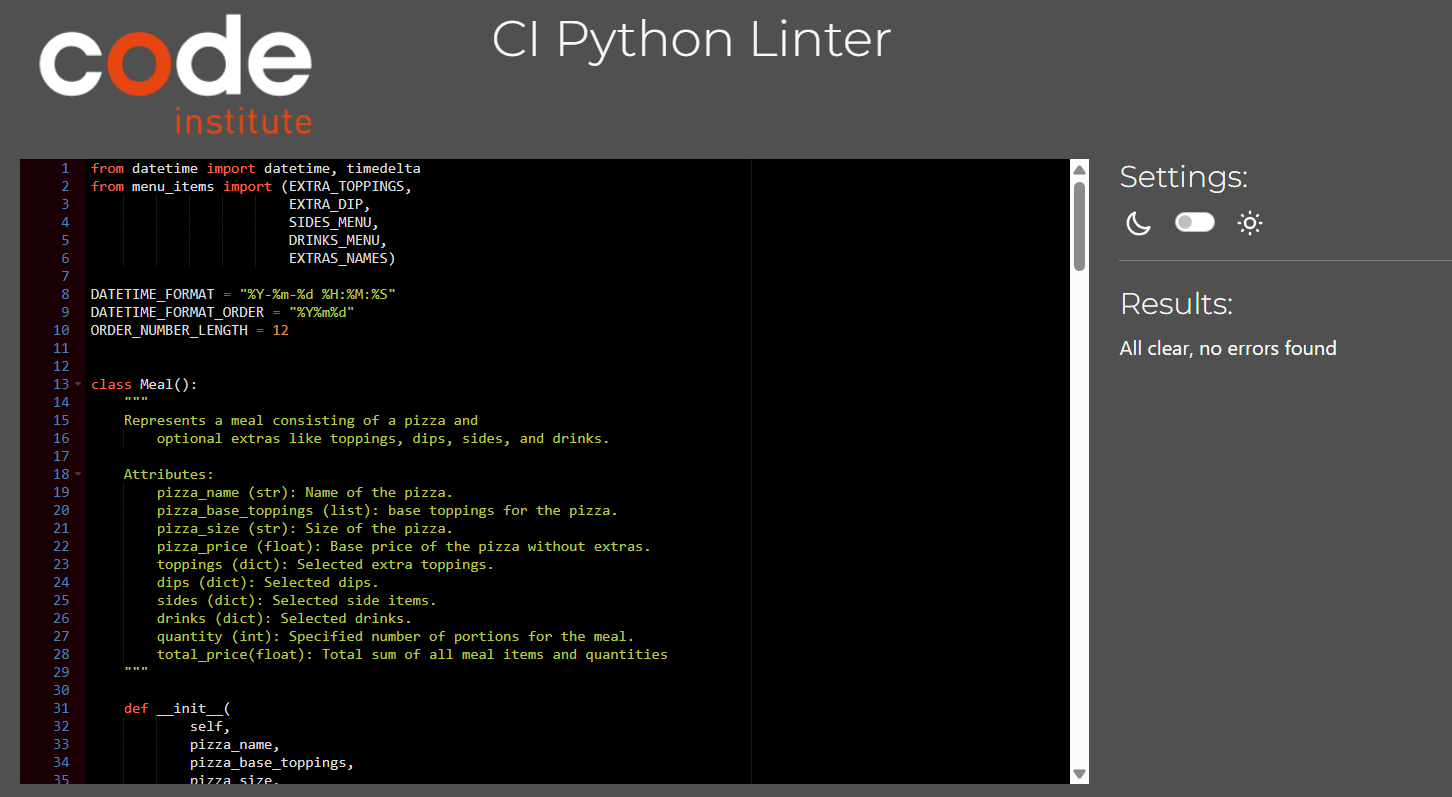
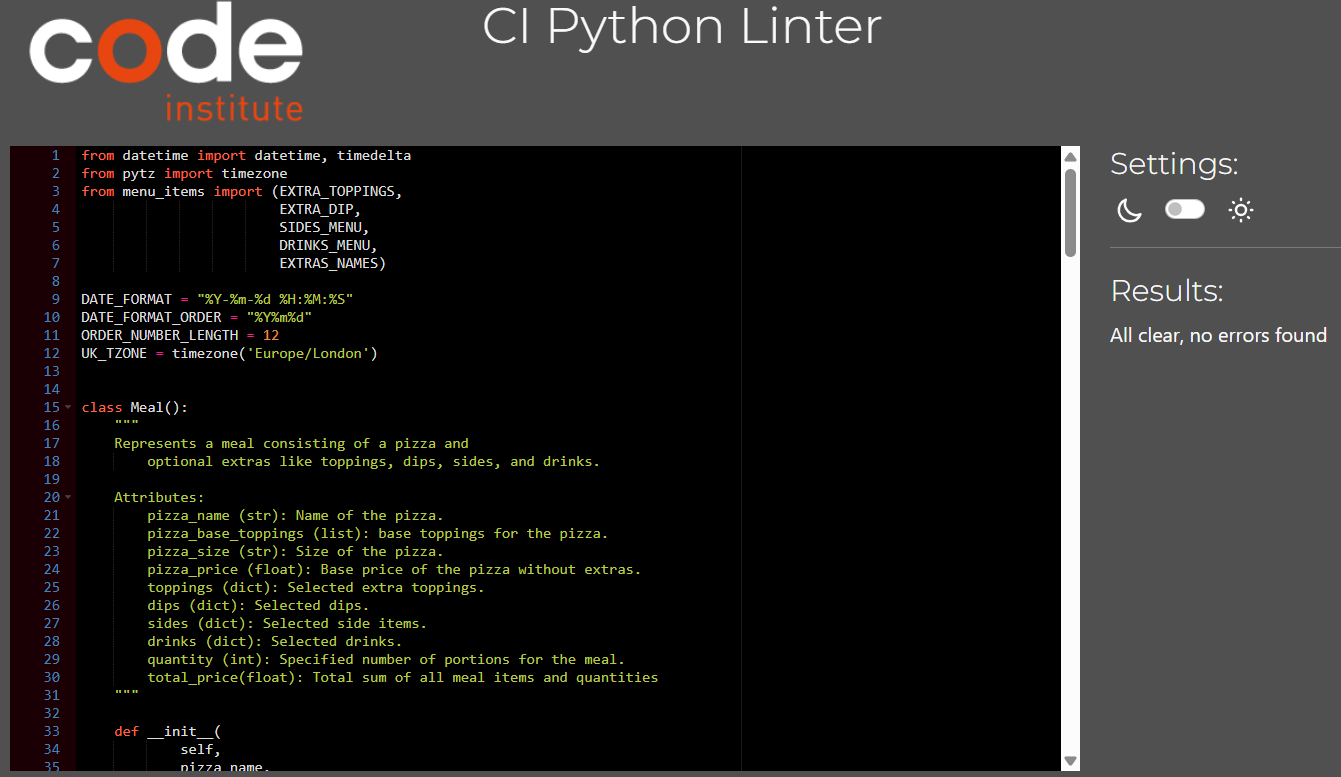
Add pizza_meals.py PEP8 validator results  and resolutions

Changed region(s): [[0.0, 0.0, 0.9784, 1.0], [0.3363, 0.0, 0.6421, 0.0927]]

diff --git a/pizza_meals.py b/pizza_meals.py
@@ -6,10 +6,10 @@ from menu_items import (EXTRA_TOPPINGS,
                         DRINKS_MENU,
                         EXTRAS_NAMES)
 
-DATETIME_FORMAT = "%Y-%m-%d %H:%M:%S"
-DATETIME_FORMAT_ORDER = "%Y%m%d"
+DATE_FORMAT = "%Y-%m-%d %H:%M:%S"
+DATE_FORMAT_ORDER = "%Y%m%d"
 ORDER_NUMBER_LENGTH = 12
-LONDON_TIMEZONE = timezone('Europe/London')
+UK_TZONE = timezone('Europe/London')
 
 
 class Meal():
@@ -139,7 +139,8 @@ class Order():
         """
         self.order_list = order_list
         self.total_price = total_price
-        self.order_date = datetime.now().astimezone(LONDON_TIMEZONE).strftime(DATETIME_FORMAT)
+        datetime_now = datetime.now().astimezone(UK_TZONE)
+        self.order_date = datetime_now.strftime(DATE_FORMAT)
         self.last_orderID = last_orderID
         self.order_ID = self.create_order_ID()
 
@@ -169,10 +170,10 @@ class Order():
                                  DELAY_pizza_PREP_TIME)+DELAY_pizza_PREP_TIME
 
         ready_by_time = datetime.strptime(
-            self.order_date, DATETIME_FORMAT) + \
+            self.order_date, DATE_FORMAT) + \
             timedelta(minutes=preparation_time)
 
-        return ready_by_time.replace(second=0).strftime(DATETIME_FORMAT)
+        return ready_by_time.replace(second=0).strftime(DATE_FORMAT)
 
     @property
     def order_items(self):
@@ -220,7 +221,7 @@ class Order():
         Returns:
             str: Formatted order ID in the formart - yyyymmdd####.
         """
-        new_order_ID = datetime.today().strftime(DATETIME_FORMAT_ORDER) + \
+        new_order_ID = datetime.today().strftime(DATE_FORMAT_ORDER) + \
             '{:04}'.format(self.last_orderID+1)
 
         return new_order_ID

diff --git a/README.md b/README.md
@@ -495,7 +495,8 @@ The application can add new records (as rows) to the 'orders' worksheet and also
 
 | File Tested | Screenshot of Errors | Solution Applied   | Screenshot of Clear Validator Output |  
 |------------ |------------          |------------        |------------                          |
-| run.py  |<img src="docs\pep8-screenshots\run-initial-validator-results.png" width="700px">  | **Warnings:** <br> 1) Missing whitespace before/after operators or commas added <br><br> 2) Missing blank lines added <br><br> 3) Lines too long - broken down into multiple rows or variables | <img src="docs\pep8-screenshots\run-final-validator-results.png" width="700px">      |    
+| run.py  |<img src="docs\pep8-screenshots\run-initial-validator-results.png" width="700px">  | **Warnings:** <br> 1) Missing whitespace before/after operators or commas added <br><br> 2) Missing blank lines added <br><br> 3) Lines too long - broken down into multiple rows or variables | <img src="docs\pep8-screenshots\run-final-validator-results.png" width="700px"> |    
+| pizza_meals.py  |<img src="docs\pep8-screenshots\pizza-meals-initial-validator-results.png" width="700px">  | **Warnings:** <br> 1) Missing whitespace before/after operators or commas added <br><br> 2) Missing blank lines added <br><br> 3) Lines too long - broken down into multiple rows or variables | <img src="docs\pep8-screenshots\pizza-meals-final-validator-results.png" width="700px"> |    
 
 ### Bugs
 
